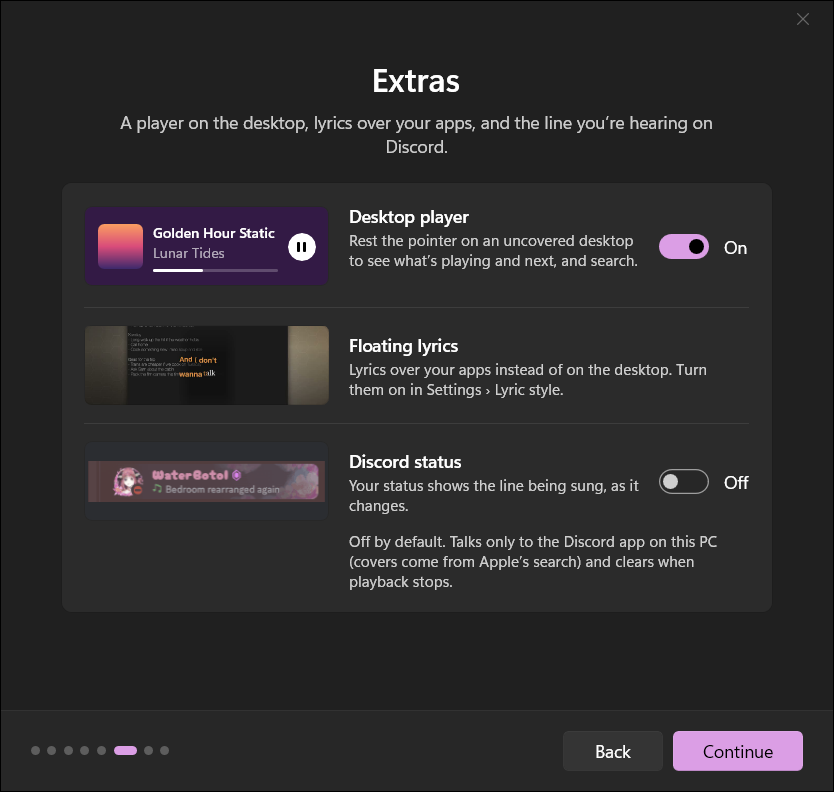
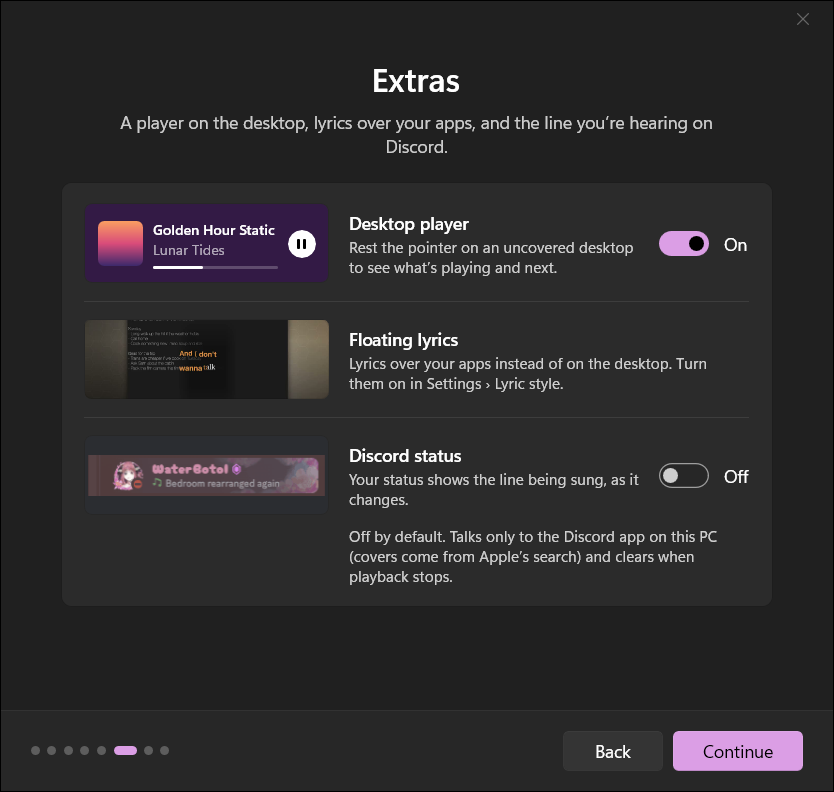
Welcome: no shortcuts or player search offered; Enter skips the opening; Discord recording moves
The owner removed global keyboard shortcuts and the desktop player's search (14 Nov 2026), so the welcome no longer
offers them: timing is nudged from the tray panel only, the desktop player's line describes the card without search,
and the last step's line names readings instead of shortcuts (tested). The opening's overlay is a focusable host,
focused only in an active window, so Enter and Space reach it while the footer is off. The Discord recording is made
playing when motion is allowed and is played or stopped again once the GIF has been decoded. Previews of the changed
pages recaptured.

diff --git a/windows/src/Lunalyr.Shell/Onboarding/OnboardingCopy.cs b/windows/src/Lunalyr.Shell/Onboarding/OnboardingCopy.cs
@@ -1,7 +1,7 @@
 // What the welcome says, kept apart from the window so tests can pin the promises in it. The Mac's OnboardingCopy
 // (OnboardingFlow.swift, Lunalyr's own lines; reworded shorter for Test Build 88: one line under a title, one caption
 // under a control) in Windows' terms: no permission prompt, the notification area instead of the menu bar, the tray
-// panel and Windows' shortcuts, a video file chosen for a song instead of the Music library's videos, and no lyrics from
+// panel (no global shortcuts and no search in the desktop player: the owner removed both, 14 Nov 2026), a video file chosen for a song instead of the Music library's videos, and no lyrics from
 // Apple Music's own app (see docs/APPLE-MUSIC-WINDOWS.md and docs/READINGS-WINDOWS.md).
 
 using Lunalyr.Core.NowPlaying;
@@ -154,9 +154,8 @@ public static class OnboardingCopy
 
     public const string TimingTitle = "Lyrics early or late?";
 
-    /// <summary>Nudging the timing, with the keys this keyboard types for the two shortcuts.</summary>
-    public static string Timing(string earlier, string later) =>
-        $"Nudge them from the tray panel, or press {earlier} and {later} once shortcuts are on. Each song keeps its timing.";
+    /// <summary>Nudging the timing: from the tray panel only (Windows has no global shortcuts).</summary>
+    public const string Timing = "Nudge them from the tray panel. Each song keeps its timing.";
 
     public const string ReadingsTitle = "Readings for Japanese, Korean and Chinese";
 
@@ -177,7 +176,8 @@ public static class OnboardingCopy
 
     public const string PlayerTitle = "Desktop player";
 
-    public const string Player = "Rest the pointer on an uncovered desktop to see what’s playing and next, and search.";
+    /// <summary>The desktop player's card (the Mac's line without its search: Windows' player has none).</summary>
+    public const string Player = "Rest the pointer on an uncovered desktop to see what’s playing and next.";
 
     /// <summary>The desktop player's switch, to Narrator (Settings › Performance's Show player on hover).</summary>
     public const string PlayerSwitch = "Show player on hover";
@@ -226,7 +226,7 @@ public static class OnboardingCopy
             ? $"“{title}” is playing, so its lyrics are on your desktop now."
             : $"{idlePrompt} and its lyrics appear on your desktop.";
 
-    public const string DoneFirstRun = "Settings has the rest: lyric style, timing, shortcuts and more.";
+    public const string DoneFirstRun = "Settings has the rest: lyric style, timing, readings and more.";
 
     public const string DoneAgain = "You can change all of this in Settings.";
 

diff --git a/windows/src/Lunalyr.App/Onboarding/OnboardingWindow.Opening.cs b/windows/src/Lunalyr.App/Onboarding/OnboardingWindow.Opening.cs
@@ -18,7 +18,7 @@ internal sealed partial class OnboardingWindow
     /// <summary>Set once the opening has played in this launch: Back to the welcome, or the welcome shown again, goes straight to the step.</summary>
     private static bool s_glassPlayed;
 
-    private Grid? _introOverlay;
+    private ContentControl? _introOverlay;
     private MutedVideo? _introVideo;
     private Microsoft.UI.Dispatching.DispatcherQueueTimer? _introTimer;
     private bool _introEnding;
@@ -26,7 +26,14 @@ internal sealed partial class OnboardingWindow
     private void StartIntro()
     {
         s_glassPlayed = true;
-        var overlay = new Grid { Background = new SolidColorBrush(Microsoft.UI.Colors.Black), RequestedTheme = ElementTheme.Dark };
+        var black = new Grid { Background = new SolidColorBrush(Microsoft.UI.Colors.Black), RequestedTheme = ElementTheme.Dark };
+        // A focusable host, so Enter and Space reach the window's keys while the footer's buttons are off.
+        var overlay = new ContentControl
+        {
+            // A quiet window (checks, captures) takes no keyboard at all, so it has no tab stop either.
+            Content = black, IsTabStop = !_capture && !_host.QuietWindows, UseSystemFocusVisuals = false,
+            HorizontalContentAlignment = HorizontalAlignment.Stretch, VerticalContentAlignment = VerticalAlignment.Stretch,
+        };
         Grid.SetRowSpan(overlay, 3);
         AutomationProperties.SetName(overlay, OnboardingCopy.SkipOpening);
         MutedVideo video;
@@ -45,7 +52,7 @@ internal sealed partial class OnboardingWindow
         video.Element.Stretch = Stretch.Uniform;
         video.Element.HorizontalAlignment = HorizontalAlignment.Center;
         video.Element.VerticalAlignment = VerticalAlignment.Center;
-        overlay.Children.Add(video.Element);
+        black.Children.Add(video.Element);
         overlay.Tapped += (_, _) => EndIntro(TimeSpan.Zero);
         // Both arrive off the UI thread.
         video.Ended += () => DispatcherQueue.TryEnqueue(() => EndIntro(WelcomeGlass.Hold));
@@ -54,6 +61,8 @@ internal sealed partial class OnboardingWindow
         _introOverlay = overlay;
         _introVideo = video;
         SetUnderIntro(true);
+        // Only an active window's opening takes the keyboard: a quiet one never does.
+        if (_active) overlay.Focus(FocusState.Programmatic);
         video.Play();
         _host.Log.App.Info("Welcome: the glass logo opening plays (muted).");
         // Never stuck on black, whatever the player says (or doesn't).

diff --git a/windows/src/Lunalyr.App/Onboarding/OnboardingWindow.Steps.cs b/windows/src/Lunalyr.App/Onboarding/OnboardingWindow.Steps.cs
@@ -381,10 +381,7 @@ internal sealed partial class OnboardingWindow
         var card = CardPanel();
         card.Children.Add(FeatureRow(OnboardingCopy.SourcesTitle, OnboardingCopy.Sources));
         card.Children.Add(Divider());
-        var modifiers = HotkeyModifiersInfo.Parse(ctx.Current.GlobalShortcutModifiers) ?? HotkeyModifiers.ControlOptionCommand;
-        var earlier = _host.Hotkeys?.Label(HotkeyAction.SyncEarlier) ?? modifiers.Prefix() + "[";
-        var later = _host.Hotkeys?.Label(HotkeyAction.SyncLater) ?? modifiers.Prefix() + "]";
-        card.Children.Add(FeatureRow(OnboardingCopy.TimingTitle, OnboardingCopy.Timing(earlier, later)));
+        card.Children.Add(FeatureRow(OnboardingCopy.TimingTitle, OnboardingCopy.Timing));
         card.Children.Add(Divider());
 
         var menus = new Grid { ColumnSpacing = 8, RowSpacing = 8, Margin = new Thickness(0, 4, 0, 0), HorizontalAlignment = HorizontalAlignment.Left };
@@ -441,8 +438,10 @@ internal sealed partial class OnboardingWindow
         _clips.Add(floating);
         card.Children.Add(ExtraRow(floating.View, OnboardingCopy.FloatingTitle, OnboardingCopy.Floating, null));
         card.Children.Add(Divider());
-        var (discord, recording) = OnboardingArt.DiscordStatus(ExtraPictureWidth, ExtraPictureHeight, animates: false);
+        var (discord, recording) = OnboardingArt.DiscordStatus(ExtraPictureWidth, ExtraPictureHeight, animates: MotionAllowed());
         _discordRecording = recording;
+        // Play and Stop only take once the GIF has been decoded.
+        if (recording is not null) recording.ImageOpened += (_, _) => UpdateMotion();
         card.Children.Add(ExtraRow(discord, OnboardingCopy.DiscordTitle, OnboardingCopy.Discord,
             Named(Toggle(ctx, s => s.DiscordPresence, (s, v) => s with { DiscordPresence = v }), OnboardingCopy.DiscordSwitch, OnboardingCopy.Discord)));
         var privacy = Caption(OnboardingCopy.DiscordPrivacy);

diff --git a/windows/tests/Lunalyr.Shell.Tests/Onboarding/WelcomeTests.cs b/windows/tests/Lunalyr.Shell.Tests/Onboarding/WelcomeTests.cs
@@ -32,7 +32,13 @@ public sealed class WelcomeTests
         // What lyric services receive, as the Mac's About › Privacy says.
         Assert.Contains("title, artist, album and length", OnboardingCopy.Sources);
         Assert.Contains("Lyrics are never sent anywhere to be translated", OnboardingCopy.Translations);
-        Assert.Contains("Win+Ctrl+Alt+[ and Win+Ctrl+Alt+]", OnboardingCopy.Timing("Win+Ctrl+Alt+[", "Win+Ctrl+Alt+]"));
+        // The owner removed global shortcuts and the desktop player's search (14 Nov 2026): the welcome offers neither.
+        Assert.Equal("Nudge them from the tray panel. Each song keeps its timing.", OnboardingCopy.Timing);
+        foreach (var text in new[] { OnboardingCopy.Timing, OnboardingCopy.Player, OnboardingCopy.DoneFirstRun, OnboardingCopy.Extras })
+        {
+            Assert.DoesNotContain("shortcut", text, StringComparison.OrdinalIgnoreCase);
+            Assert.DoesNotContain("search", text, StringComparison.OrdinalIgnoreCase);
+        }
         Assert.Equal("Play a song in Music and its lyrics appear on your desktop.",
             OnboardingCopy.Done(null, idlePrompt: "Play a song in Music"));
     }

diff --git a/windows/src/Lunalyr.App/Onboarding/OnboardingWindow.cs b/windows/src/Lunalyr.App/Onboarding/OnboardingWindow.cs
@@ -109,6 +109,8 @@ internal sealed partial class OnboardingWindow : Window
         Activated += (_, e) =>
         {
             _active = e.WindowActivationState != WindowActivationState.Deactivated;
+            // Under the opening, the keyboard goes to it (Enter or Space skip it) once the window is active.
+            if (_active && _introOverlay is { } intro) intro.Focus(FocusState.Programmatic);
             // The recordings play only in the active window (the Mac's controlActiveState).
             UpdateMotion();
         };

diff --git a/windows/docs/APP-SHELL.md b/windows/docs/APP-SHELL.md
@@ -765,10 +765,10 @@ theme setting and `--theme` apply as in Settings.
 | Your music | Windows' counterpart of the Mac's permission step: Lunalyr follows any app that shares what it plays with Windows (the media controls by the volume flyout), **Windows asks nothing and Lunalyr needs no permission**, and it only reads the song and its position (that last sentence under the card, as the Mac's `permissionDetail`). "Sharing with Windows now" lists the players GSMTC has sessions for, each Playing/Paused, the one followed marked (`OnboardingPlayers`, read only, never a command). Follow is Settings › Music players' Player, the same setting (`player`, `PlayerChoiceCombo`): Automatic, Apple Music, Spotify, each player sharing now and the current choice; with one player chosen the others are listed as "Not followed: Lunalyr follows … only" and what they play isn't read. Continue asks nothing of anyone. |
 | Pick a look | The Mac's look step: the live preview (Settings' `SettingsPreview`, 280 wide, drawn only on this step and while the window is visible), then a `SelectorBar` (the Mac's segmented control) with two halves, kept in the flow so Back returns to the one showing (`OnboardingFlow.LookPart`). **Wallpaper:** every type as a tile (`backgroundMode`; Settings' own tile grid, so Image or video with nothing imported opens the file picker and imports) and a line on what the type draws (or the import's progress or failure). **Lyrics:** four layout tiles (Broadside, Portal, Mosaic, Cascade; the layout in use leads when it is another, `LayoutChoices.Shown`) drawn by the wallpaper's own composition layers with the sample line "Static on the radio, gold across the bay" (`LayoutThumbnails`: one 192 × 112 WARP surface laid out as a 210-line stage, released with the tiles); every tile holds the line just sung, and the chosen one plays it three times at 20 fps first; then what the chosen layout does ("Match the music picks a layout to suit each song." for Match the music) and "10 more in Settings, with Match the music." The wallpaper follows at once. |
 | Music videos | The Mac's line, with Windows' video file chosen for a song in place of the Music library's videos; "Play music videos as the wallpaper" (on: `backgroundMode` `musicVideo`, remembering the type it replaced; off: back to that type, `OnboardingCopy.WithVideoWallpaper`) and "Search YouTube for videos" (`musicVideoOnline`, off by default) with Settings' own caption on what YouTube receives. The Mac's two framing pictures and menus (YouTube and library videos: Fill the screen or Show the whole video) belong to "Show the whole video", another item of the port: they join this step once that setting is merged. Nothing here loads a video or a player. |
-| Lyrics & readings | Where lyrics come from (lyric services such as LRCLIB, sent only the song's title, artist, album and length; Windows has no Apple Music lyrics of its own), nudging the timing from the tray panel or with the two shortcuts (labelled as this keyboard types them, e.g. Win+Ctrl+Alt+[), readings Display and Language (`romanizationDisplay`, `romanizationLanguage`) beside the readings recording (144 × 93), and the Mac's "Show translations under lyrics" switch (`showTranslations`) with its caption: translations that come with the lyrics, never sent anywhere to be translated. |
-| Extras | Each with a picture (196 × 64), its name and line, and a switch: the desktop player drawn in miniature with "Show player on hover" (`showControlsOnHover`); the floating lyrics recording, with no switch ("Turn them on in Settings › Lyric style."); the Discord status recording (`DiscordStatus.gif` on Discord's dark list) with Discord status (`discordPresence`, off by default) and what it talks to: only the Discord app on this PC, covers from Apple's search, cleared when playback stops. |
+| Lyrics & readings | Where lyrics come from (lyric services such as LRCLIB, sent only the song's title, artist, album and length; Windows has no Apple Music lyrics of its own), nudging the timing from the tray panel (only: the owner removed global shortcuts on 14 Nov 2026, so the welcome doesn't offer them), readings Display and Language (`romanizationDisplay`, `romanizationLanguage`) beside the readings recording (144 × 93), and the Mac's "Show translations under lyrics" switch (`showTranslations`) with its caption: translations that come with the lyrics, never sent anywhere to be translated. |
+| Extras | Each with a picture (196 × 64), its name and line, and a switch: the desktop player drawn in miniature (its line says what the card shows, without the search the owner removed on 14 Nov 2026) with "Show player on hover" (`showControlsOnHover`); the floating lyrics recording, with no switch ("Turn them on in Settings › Lyric style."); the Discord status recording (`DiscordStatus.gif` on Discord's dark list) with Discord status (`discordPresence`, off by default) and what it talks to: only the Discord app on this PC, covers from Apple's search, cleared when playback stops. |
 | The tray | The Mac's menu-bar step: its title and note, then a picture of the taskbar's corner (the overflow ^, Lunalyr's icon lit, the clock, and the tray lyric strip while it is on); Lunalyr lives in the notification area with no taskbar button once Settings is closed, may be under ^ and can be dragged onto the taskbar to stay pinned, and opening it again brings back Settings. Switches: Lyric by the tray (`trayLyric`) and Launch at login. |
-| Done | The Mac's words: "“Title” is playing, so its lyrics are on your desktop now." or "Play a song in any music app and its lyrics appear on your desktop."; the players again and "Wallpaper: …" with what it draws; "Settings has the rest…" (first run) or "You can change all of this in Settings." (again). |
+| Done | The Mac's words: "“Title” is playing, so its lyrics are on your desktop now." or "Play a song in any music app and its lyrics appear on your desktop."; the players again and "Wallpaper: …" with what it draws; "Settings has the rest: lyric style, timing, readings and more." (first run) or "You can change all of this in Settings." (again). |
 
 **Launch at login** is the same switch as Settings › General's (see "Startup, updates and packaging"). The window takes
 two delegates from its host, `AppHost.IsLaunchAtLoginOn` (`Func<bool>`) and `AppHost.SetLaunchAtLogin`
